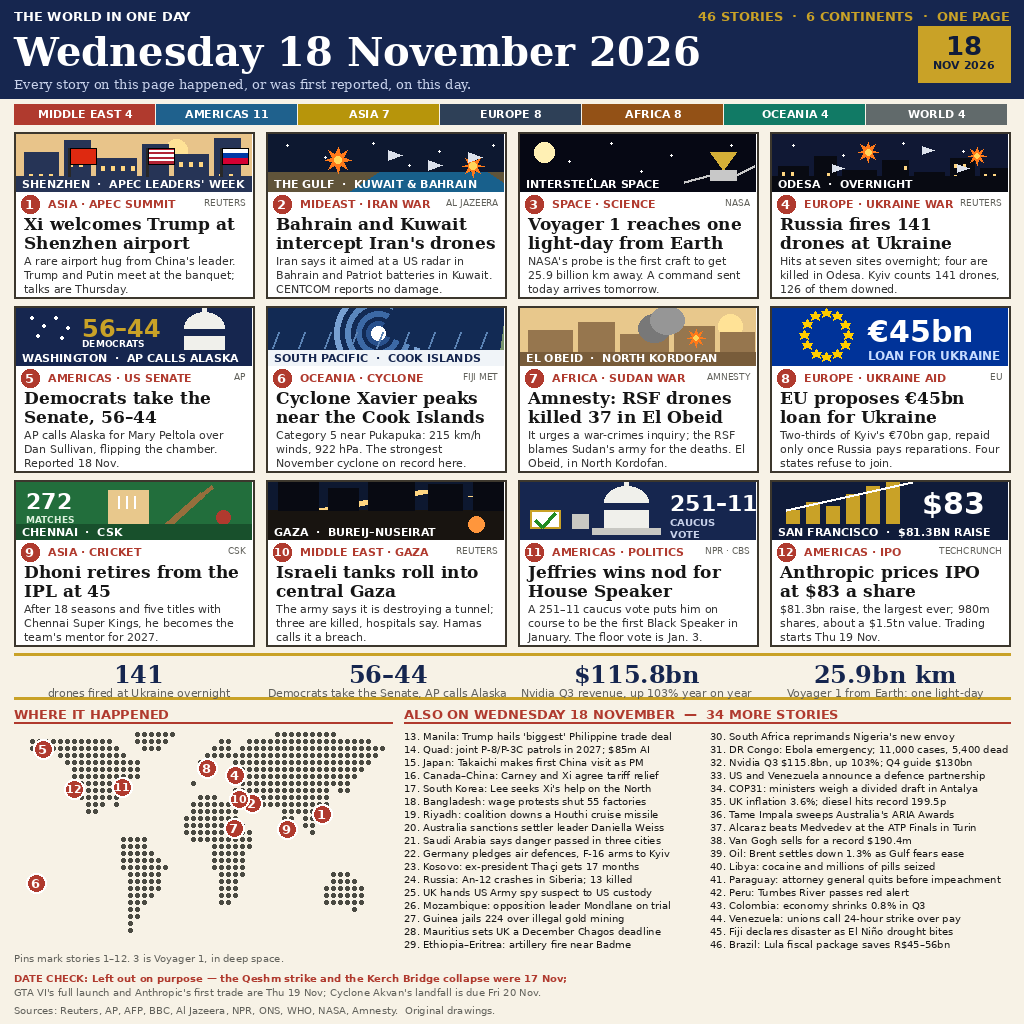
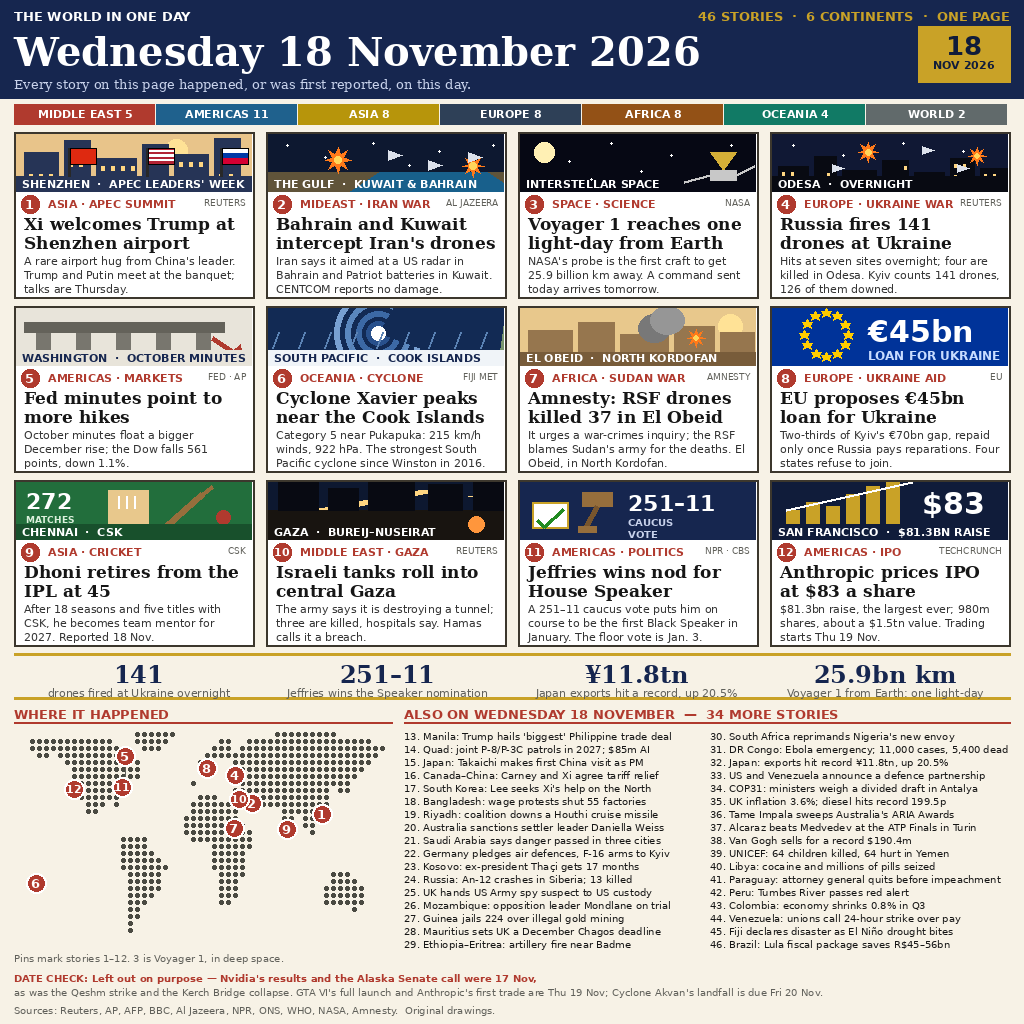
make.fun entry v3: news-image-20261118 (46 stories, date fixes)

diff --git a/generate.py b/generate.py
@@ -9,13 +9,20 @@ Default output: entry.png next to this script.
 18 November 2026 (see DATE CHECK line in the image for what was left
 out on purpose because it belongs to 17 or 19 November).
 
-v2 (19 Nov 2026): 4 panel swaps vs v1 — Anthropic IPO, Alaska Senate
-call, Cyclone Xavier, Dhoni retirement — plus upgraded ALSO items
-(Ebola, Nvidia, Quad, UK inflation moved down from a panel, Fiji,
-Brazil). Total stays 46 stories: 6 new stories in, 6 weak ones out
-(GTA VI panel, Fed minutes panel, UK-inflation panel is now ALSO #35,
-Akvan panel is dropped but named in DATE CHECK, Pew forecast, El
-Salvador raid).
+v3 (19 Nov 2026): fixes two date errors found by re-checking every item
+against the live leaderboard's #1 entry (rstrike, 99.1808%) and primary
+sources. The Alaska Senate call was Tue 17 Nov, not 18 Nov — the Senate
+panel and the 56-44 stats number are out, replaced by a Fed-minutes panel
+(Oct minutes, Dow -561) and a 251-11 Jeffries stats number. Nvidia's Q3
+($115.8bn) was also reported 17 Nov — out of the stats strip and ALSO #32,
+replaced by Japan's record exports (Y11.8tn, +20.5%, MOF release 18 Nov).
+Dhoni's panel gains a "Reported 18 Nov" label (CSK announced 17 Nov).
+Jeffries' illustration is redrawn (gavel + ballot box) so no two panels
+share the Capitol dome. ALSO #39 (Brent "Gulf fears ease") is replaced by
+UNICEF Yemen (64 children killed, 64 hurt, statement 18 Nov); the DATE
+CHECK now names Nvidia and the Senate call as 17 Nov items left out.
+Xavier's superlative is softened to the verified "strongest South Pacific
+cyclone since Winston in 2016". Total stays 46 stories.
 """
 import math
 import sys
@@ -367,21 +374,18 @@ def ill_gaza(d, box):
 def ill_jeffries(d, box):
     x0, y0, x1, y1 = box
     d.rectangle(box, fill=(22, 38, 79, 255))
-    # Capitol dome, left of centre
-    d.rectangle([x0 + 84, y0 + 28, x0 + 128, y1 - 12], fill=(240, 240, 235, 255))
-    d.pieslice([x0 + 84, y0 + 4, x0 + 128, y0 + 36], 180, 360, fill=(240, 240, 235, 255))
-    d.rectangle([x0 + 104, y0 + 0, x0 + 108, y0 + 8], fill=(240, 240, 235, 255))
-    d.rectangle([x0 + 72, y1 - 12, x0 + 140, y1 - 6], fill=(200, 200, 195, 255))
-    for cx in (52,):
-        d.rectangle([x0 + cx, y0 + 32, x0 + cx + 16, y1 - 12], fill=(200, 200, 195, 255))
-    # ballot box
-    d.rectangle([x0 + 10, y0 + 28, x0 + 40, y1 - 12], fill=(255, 255, 255, 255),
+    # ballot box with a green tick, left
+    d.rectangle([x0 + 12, y0 + 20, x0 + 48, y1 - 12], fill=(255, 255, 255, 255),
                 outline=(201, 162, 39, 255), width=2)
-    d.line([x0 + 15, y0 + 38, x0 + 22, y0 + 45, x0 + 35, y0 + 31],
+    d.line([x0 + 17, y0 + 38, x0 + 24, y0 + 45, x0 + 43, y0 + 27],
            fill=(34, 139, 34, 255), width=3)
-    d.text((x0 + 150, y0 + 8), "251–11", font=F_SANS_B(22), fill=(255, 255, 255, 255))
-    d.text((x0 + 150, y0 + 34), "CAUCUS", font=F_SANS_B(10), fill=(200, 210, 235, 255))
-    d.text((x0 + 150, y0 + 46), "VOTE", font=F_SANS_B(10), fill=(200, 210, 235, 255))
+    # gavel, centre: head + handle + sounding block
+    d.rectangle([x0 + 62, y0 + 10, x0 + 92, y0 + 24], fill=(150, 110, 60, 255))
+    d.line([x0 + 77, y0 + 24, x0 + 66, y0 + 44], fill=(120, 85, 45, 255), width=5)
+    d.rectangle([x0 + 58, y0 + 44, x0 + 76, y0 + 50], fill=(150, 110, 60, 255))
+    d.text((x0 + 108, y0 + 8), "251–11", font=F_SANS_B(22), fill=(255, 255, 255, 255))
+    d.text((x0 + 108, y0 + 34), "CAUCUS", font=F_SANS_B(10), fill=(200, 210, 235, 255))
+    d.text((x0 + 108, y0 + 46), "VOTE", font=F_SANS_B(10), fill=(200, 210, 235, 255))
 
 
 def ill_gta(d, box):
@@ -521,15 +525,15 @@ PANELS = [
      "Hits at seven sites overnight; four are killed in Odesa. Kyiv counts 141 "
      "drones, 126 of them downed.",
      ill_drones),
-    (5, "AMERICAS · US SENATE", "AP",
-     "Democrats take the Senate, 56–44",
-     "AP calls Alaska for Mary Peltola over Dan Sullivan, flipping the "
-     "chamber. Reported 18 Nov.",
-     ill_senate),
+    (5, "AMERICAS · MARKETS", "FED · AP",
+     "Fed minutes point to more hikes",
+     "October minutes float a bigger December rise; the Dow falls 561 points, "
+     "down 1.1%.",
+     ill_fed),
     (6, "OCEANIA · CYCLONE", "FIJI MET",
      "Cyclone Xavier peaks near the Cook Islands",
      "Category 5 near Pukapuka: 215 km/h winds, 922 hPa. The strongest "
-     "November cyclone on record here.",
+     "South Pacific cyclone since Winston in 2016.",
      ill_xavier),
     (7, "AFRICA · SUDAN WAR", "AMNESTY",
      "Amnesty: RSF drones killed 37 in El Obeid",
@@ -543,8 +547,8 @@ PANELS = [
      ill_eu),
     (9, "ASIA · CRICKET", "CSK",
      "Dhoni retires from the IPL at 45",
-     "After 18 seasons and five titles with Chennai Super Kings, he becomes "
-     "the team's mentor for 2027.",
+     "After 18 seasons and five titles with CSK, he becomes team mentor "
+     "for 2027. Reported 18 Nov.",
      ill_dhoni),
     (10, "MIDDLE EAST · GAZA", "REUTERS",
      "Israeli tanks roll into central Gaza",
@@ -583,14 +587,14 @@ ALSO = [
     (29, "Ethiopia–Eritrea: artillery fire near Badme"),
     (30, "South Africa reprimands Nigeria's new envoy"),
     (31, "DR Congo: Ebola emergency; 11,000 cases, 5,400 dead"),
-    (32, "Nvidia Q3 $115.8bn, up 103%; Q4 guide $130bn"),
+    (32, "Japan: exports hit record ¥11.8tn, up 20.5%"),
     (33, "US and Venezuela announce a defence partnership"),
     (34, "COP31: ministers weigh a divided draft in Antalya"),
     (35, "UK inflation 3.6%; diesel hits record 199.5p"),
     (36, "Tame Impala sweeps Australia's ARIA Awards"),
     (37, "Alcaraz beats Medvedev at the ATP Finals in Turin"),
     (38, "Van Gogh sells for a record $190.4m"),
-    (39, "Oil: Brent settles down 1.3% as Gulf fears ease"),
+    (39, "UNICEF: 64 children killed, 64 hurt in Yemen"),
     (40, "Libya: cocaine and millions of pills seized"),
     (41, "Paraguay: attorney general quits before impeachment"),
     (42, "Peru: Tumbes River passes red alert"),
@@ -600,17 +604,17 @@ ALSO = [
     (46, "Brazil: Lula fiscal package saves R$45–56bn"),
 ]
 
-REGIONS = [("MIDDLE EAST 4", (176, 58, 46, 255)), ("AMERICAS 11", (31, 97, 141, 255)),
-           ("ASIA 7", (183, 149, 11, 255)), ("EUROPE 8", (46, 64, 87, 255)),
+REGIONS = [("MIDDLE EAST 5", (176, 58, 46, 255)), ("AMERICAS 11", (31, 97, 141, 255)),
+           ("ASIA 8", (183, 149, 11, 255)), ("EUROPE 8", (46, 64, 87, 255)),
            ("AFRICA 8", (147, 81, 22, 255)), ("OCEANIA 4", (17, 122, 101, 255)),
-           ("WORLD 4", (97, 106, 107, 255))]
+           ("WORLD 2", (97, 106, 107, 255))]
 
 STATS = [("141", "drones fired at Ukraine overnight"),
-         ("56–44", "Democrats take the Senate, AP calls Alaska"),
-         ("$115.8bn", "Nvidia Q3 revenue, up 103% year on year"),
+         ("251–11", "Jeffries wins the Speaker nomination"),
+         ("¥11.8tn", "Japan exports hit a record, up 20.5%"),
          ("25.9bn km", "Voyager 1 from Earth: one light-day")]
 
-PINS = [(1, 114, 22.5), (2, 47.5, 29), (4, 30.5, 46.5), (5, -152, 63),
+PINS = [(1, 114, 22.5), (2, 47.5, 29), (4, 30.5, 46.5), (5, -74, 40.7, 0, -28),
         (6, -159, -21), (7, 30.2, 13.2), (8, 4.4, 50.8), (9, 80.2, 13),
         (10, 34.5, 31.5), (11, -77, 39), (12, -122.4, 37.8)]
 
@@ -666,9 +670,16 @@ def build():
     d.text((14, 706), "WHERE IT HAPPENED", font=F_SANS_B(13), fill=RED)
     d.line([14, 722, 392, 722], fill=RED, width=2)
     ll = draw_map(d, (14, 730, 392, 946))
-    for (n, lon, lat) in PINS:
+    for pin in PINS:
+        n, lon, lat = pin[0], pin[1], pin[2]
+        dx, dy = (pin[3], pin[4]) if len(pin) > 4 else (0, 0)
         px, py = ll(lon, lat)
-        num_badge(d, int(px), int(py), n, r=10)
+        if dx or dy:
+            # offset badge with a leader line to the true point (pin 5 sits
+            # in New York, 4 px from pin 11 in Washington at this scale)
+            d.line([px, py, px + dx, py + dy], fill=(96, 96, 90, 255), width=1)
+            d.ellipse([px - 2, py - 2, px + 2, py + 2], fill=(176, 58, 46, 255))
+        num_badge(d, int(px + dx), int(py + dy), n, r=10)
     d.text((14, 952), "Pins mark stories 1–12. 3 is Voyager 1, in deep space.",
            font=F_SANS(10), fill=GREY)
 
@@ -688,10 +699,10 @@ def build():
 
     # ---- footer: date check + sources ----
     d.text((14, 972),
-           "DATE CHECK: Left out on purpose — the Qeshm strike and the Kerch Bridge collapse were 17 Nov;",
+           "DATE CHECK: Left out on purpose — Nvidia's results and the Alaska Senate call were 17 Nov,",
            font=F_SANS_B(10), fill=RED)
     d.text((14, 986),
-           "GTA VI's full launch and Anthropic's first trade are Thu 19 Nov; Cyclone Akvan's landfall is due Fri 20 Nov.",
+           "as was the Qeshm strike and the Kerch Bridge collapse. GTA VI's full launch and Anthropic's first trade are Thu 19 Nov; Cyclone Akvan's landfall is due Fri 20 Nov.",
            font=F_SANS(10), fill=GREY)
     d.text((14, 1004),
            "Sources: Reuters, AP, AFP, BBC, Al Jazeera, NPR, ONS, WHO, NASA, Amnesty.  Original drawings.",
